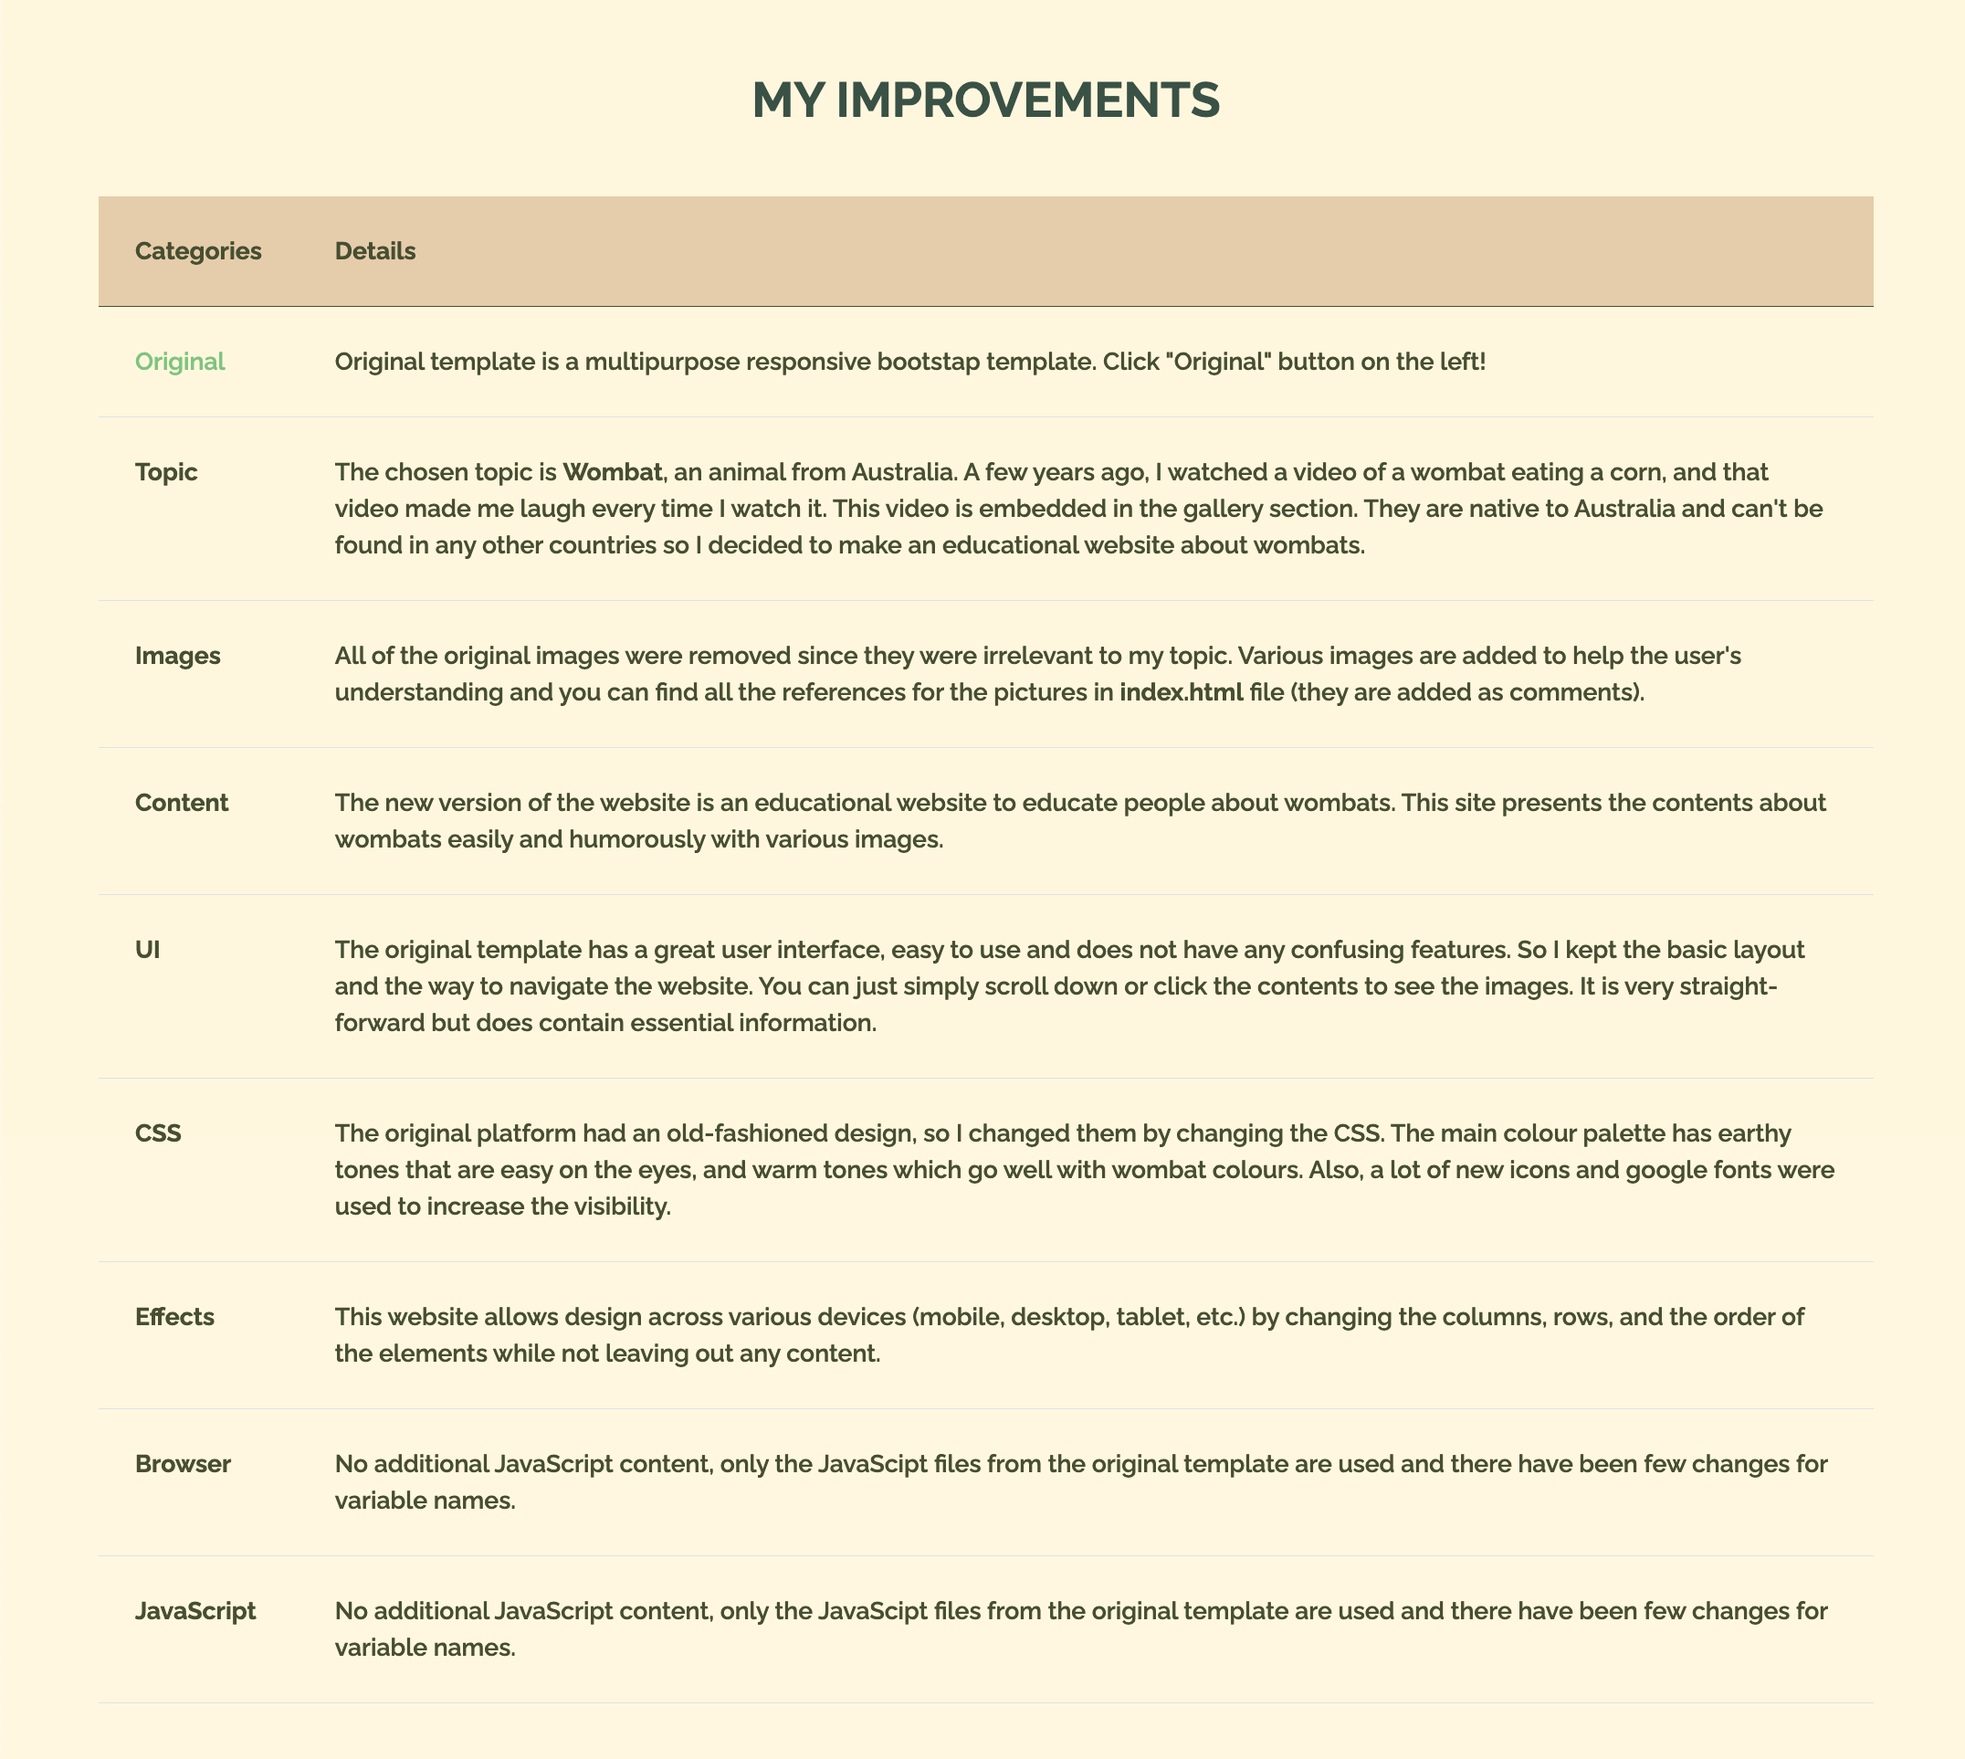
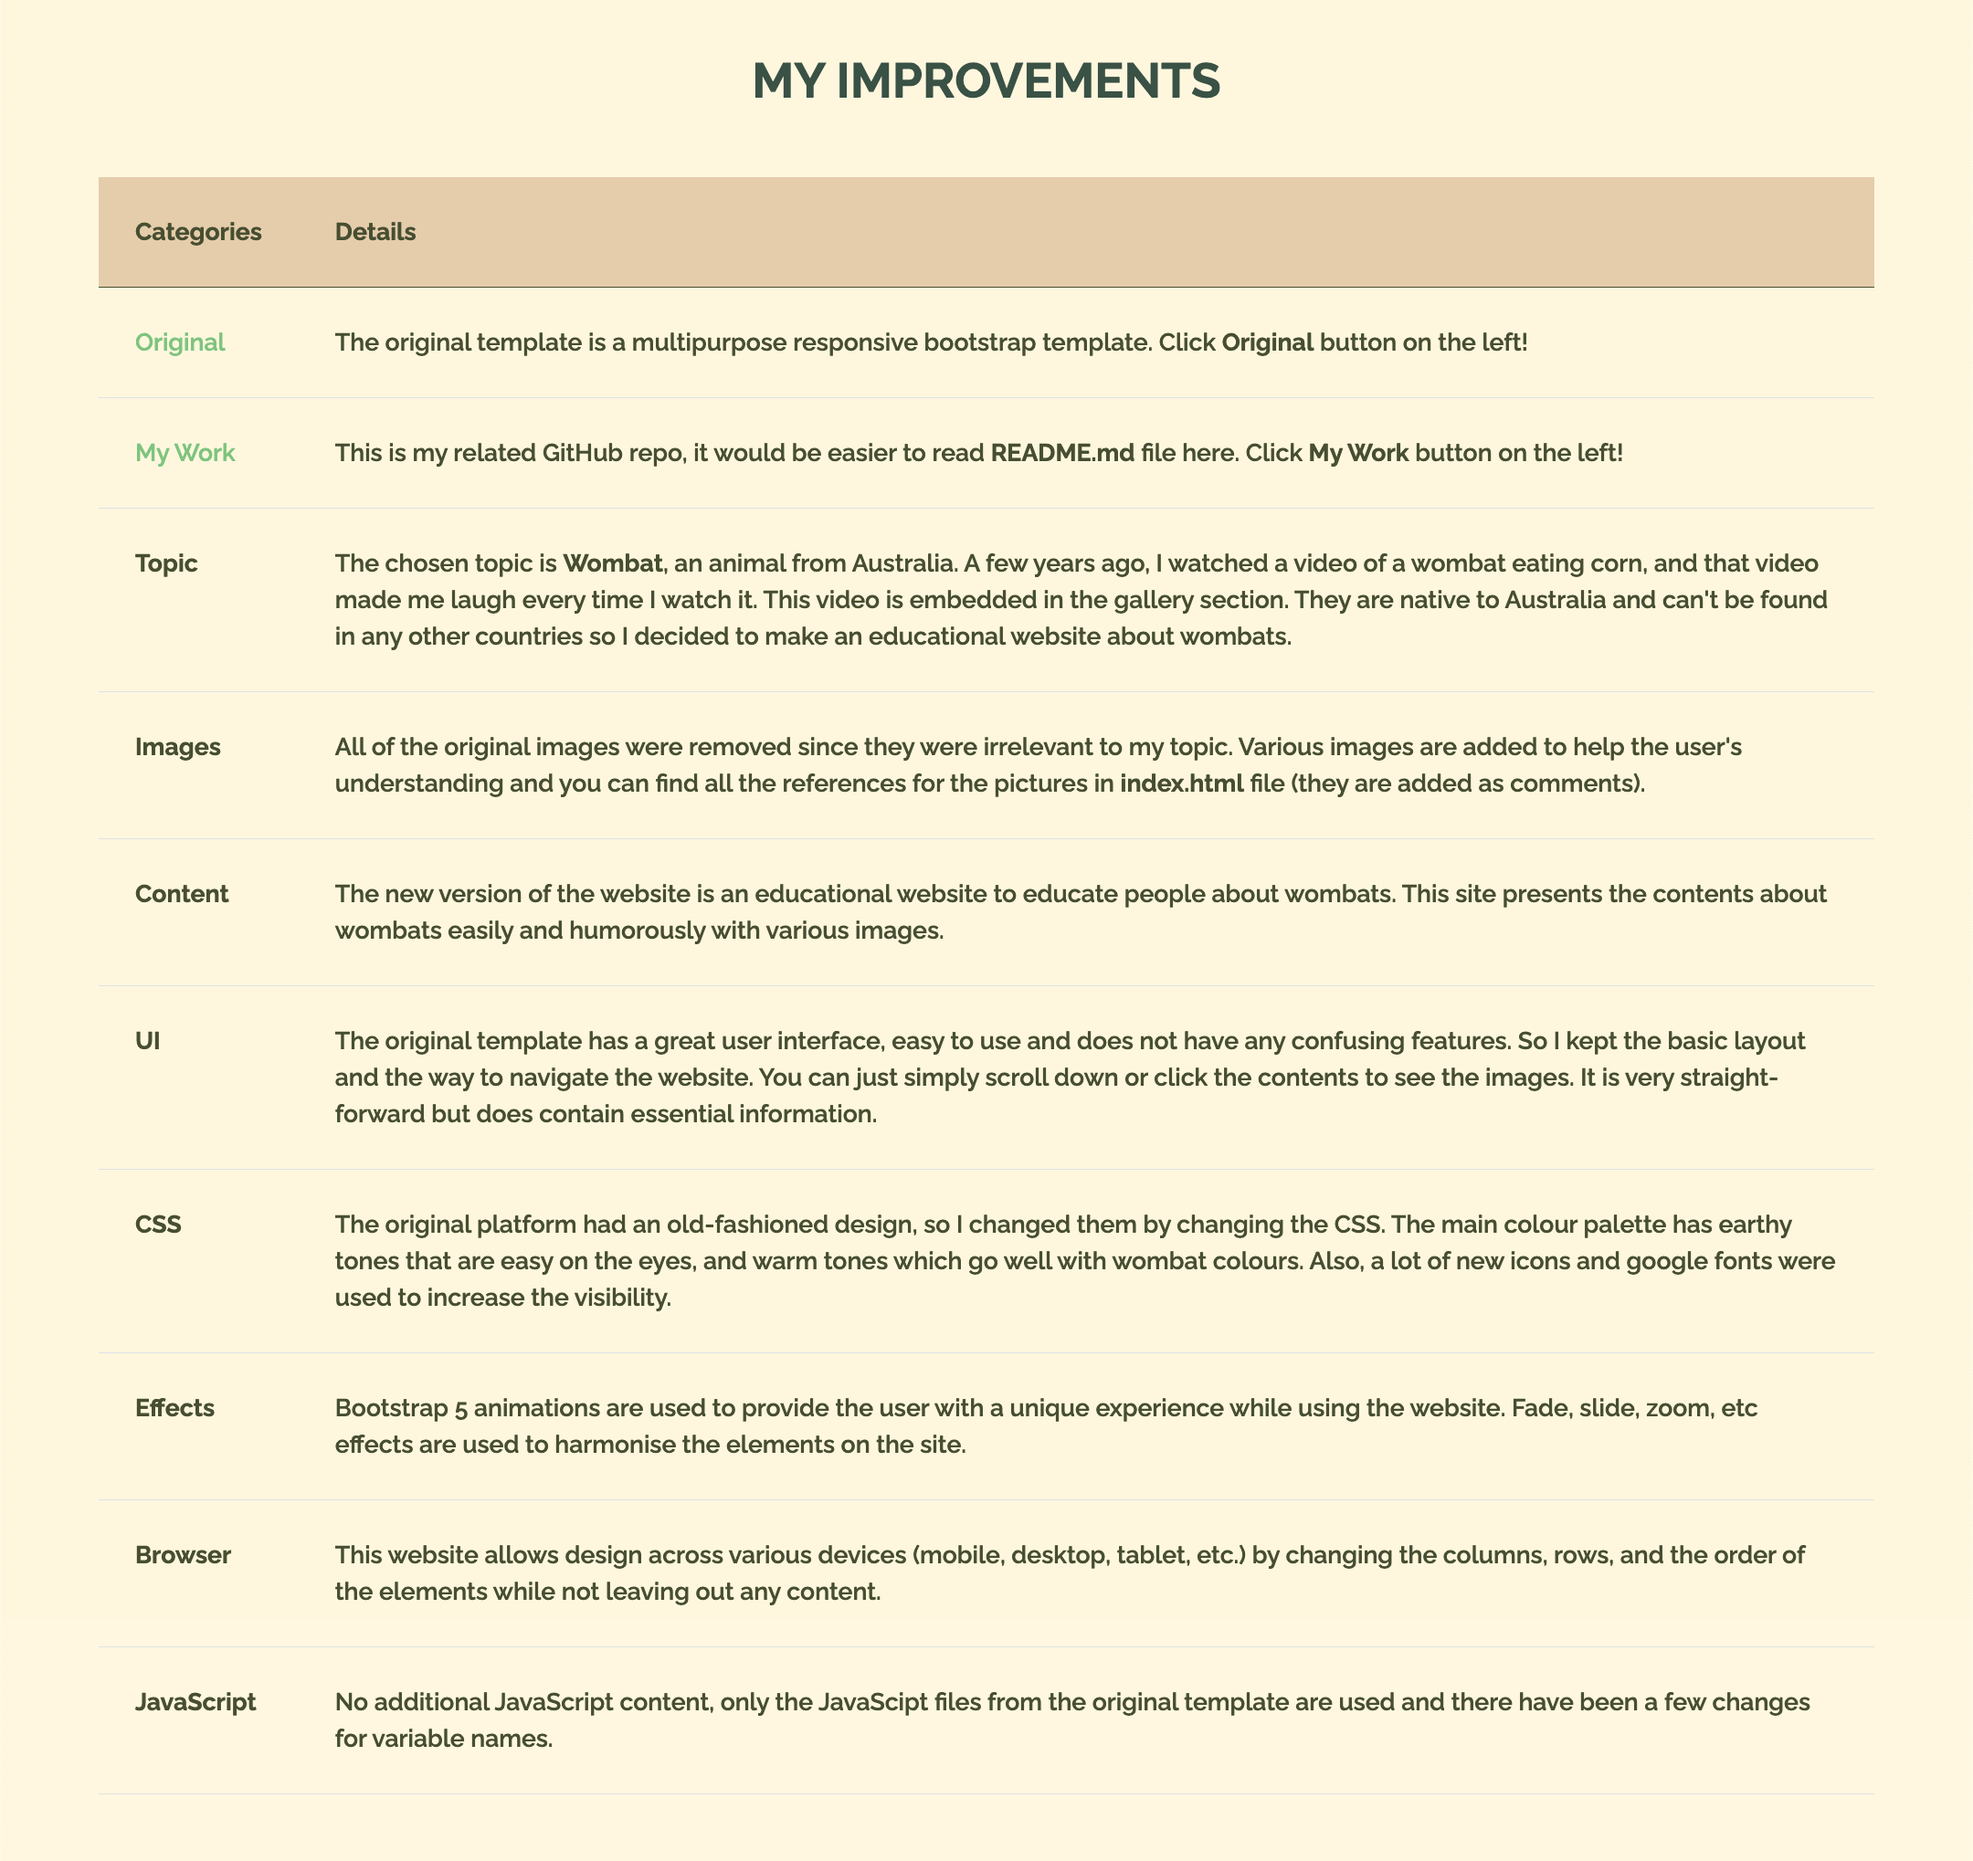
eh

diff --git a/index.html b/index.html
@@ -650,11 +650,14 @@
               <tbody>
                 <tr>
                   <td><a href="https://themewagon.com/themes/free-one-page-multipurpose-responsive-bootstrap-template-download-2017/">Original</a></td>
-                  <td>Original template is a multipurpose responsive bootstap template. Click "Original" button on the left!</td>
+                  <td>The original template is a multipurpose responsive bootstrap template. Click <b>Original</b> button on the left!</td>
                 </tr>
                 <tr>
+                  <td><a href="https://github.com/jinantonic/EAD-Lab-1">My Work</a></td>
+                  <td>This is my related GitHub repo, it would be easier to read <b>README.md</b> file here. Click <b>My Work</b> button on the left!</td>
+                <tr>
                   <td><b>Topic</b></td>
-                  <td>The chosen topic is <b>Wombat</b>, an animal from Australia. A few years ago, I watched a video of a wombat eating a corn, and that video made me laugh every time I watch it. This video is embedded in the gallery section. They are native to Australia and can't be found in any other countries so I decided to make an educational website about wombats.</td>
+                  <td>The chosen topic is <b>Wombat</b>, an animal from Australia. A few years ago, I watched a video of a wombat eating corn, and that video made me laugh every time I watch it. This video is embedded in the gallery section. They are native to Australia and can't be found in any other countries so I decided to make an educational website about wombats.</td>
                 </tr>
                 <tr>
                   <td><b>Images</b></td>
@@ -674,15 +677,15 @@
                 </tr>
                 <tr>
                   <td><b>Effects</b></td>
-                  <td>This website allows design across various devices (mobile, desktop, tablet, etc.) by changing the columns, rows, and the order of the elements while not leaving out any content.</td>
+                  <td>Bootstrap 5 animations are used to provide the user with a unique experience while using the website. Fade, slide, zoom, etc effects are used to harmonise the elements on the site.</td>
                 </tr>
                 <tr>
                   <td><b>Browser</b></td>
-                  <td>No additional JavaScript content, only the JavaScipt files from the original template are used and there have been few changes for variable names.</td>
+                  <td>This website allows design across various devices (mobile, desktop, tablet, etc.) by changing the columns, rows, and the order of the elements while not leaving out any content.</td>
                 </tr>
                 <tr>
                   <td><b>JavaScript</b></td>
-                  <td>No additional JavaScript content, only the JavaScipt files from the original template are used and there have been few changes for variable names.</td>
+                  <td>No additional JavaScript content, only the JavaScipt files from the original template are used and there have been a few changes for variable names.</td>
                 </tr>
               </tbody>
             </table>
